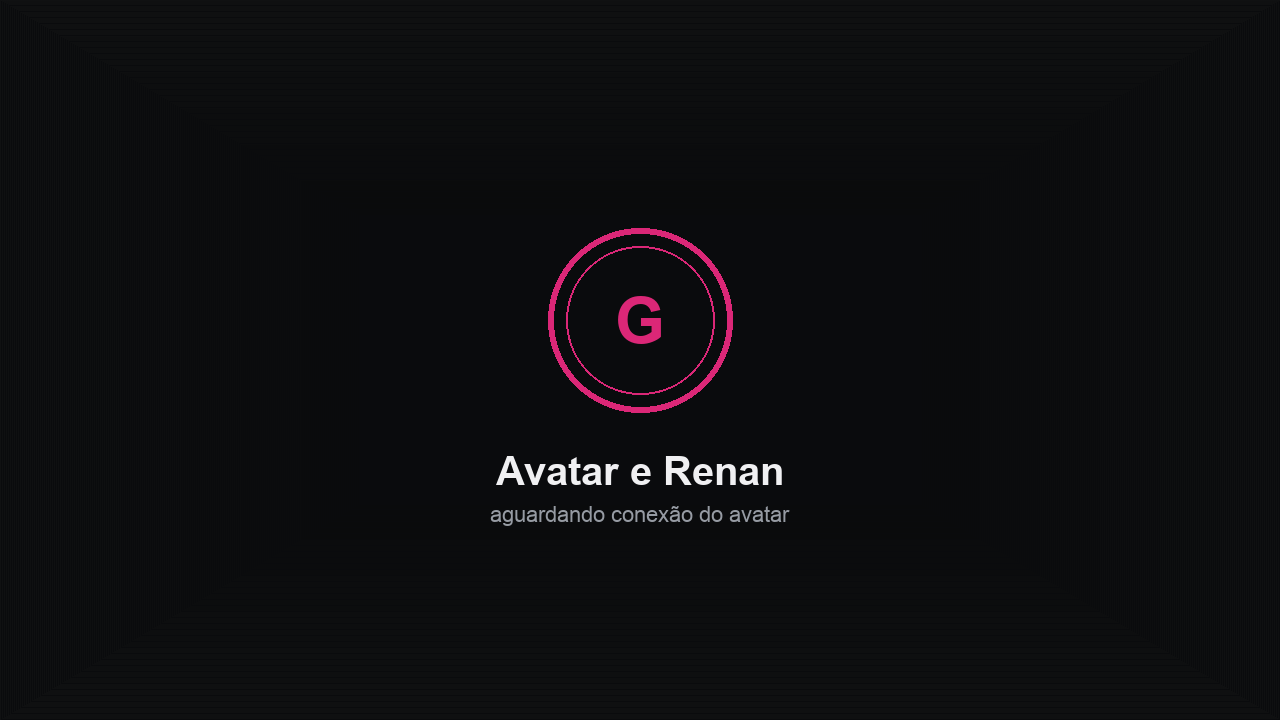
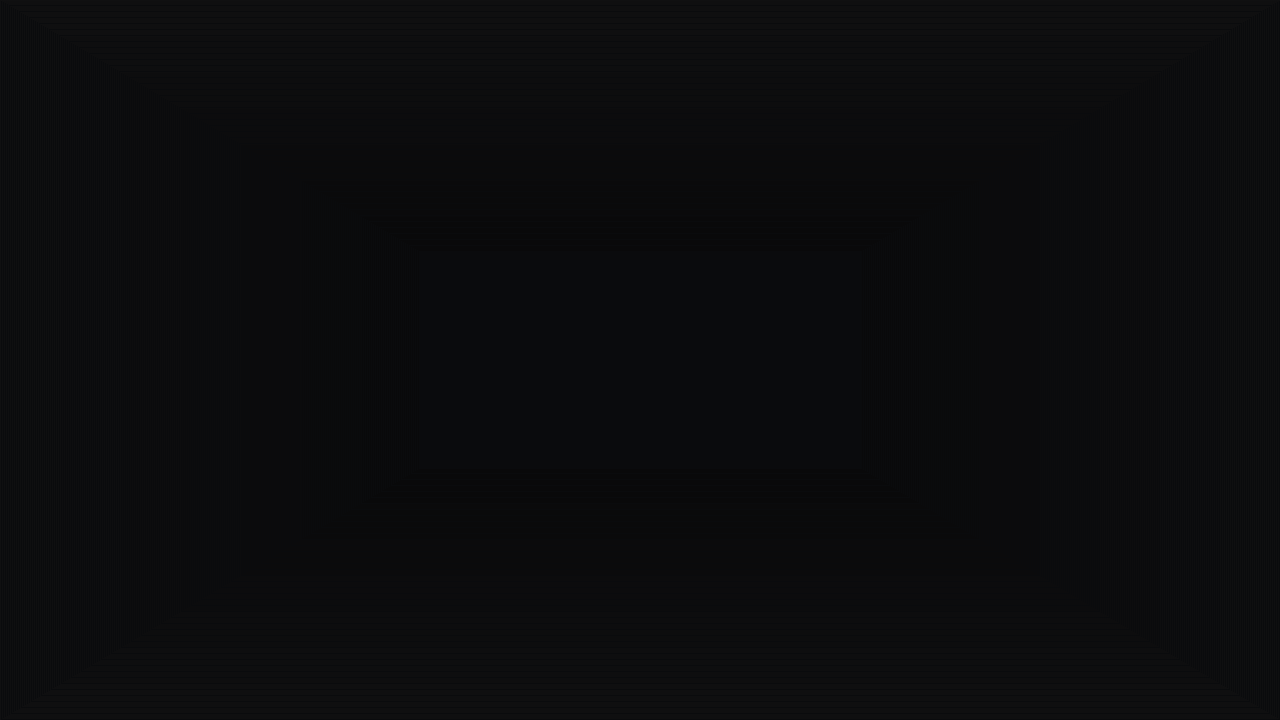
fix: poster placeholder duplicava texto com o overlay ao vivo
O PNG de fallback tinha texto/ícone embutido que sobrepunha com o
overlay "AVATAR DESCONECTADO" depois do fix do preview - trocado por
um fundo neutro, sem texto, já que o overlay ao vivo cobre o status.

diff --git a/PROGRESSO-DEMO.md b/PROGRESSO-DEMO.md
@@ -5,8 +5,10 @@ de tudo que foi feito, o que falta, e o que depende de você. O roteiro de
 validação está em `PLANO-DE-TESTES.md` (ainda não rodei nada — só código).
 
 **Status geral: código pronto para os 10 itens pedidos + ajustes da rodada 2
-(senha de login, rename Renan, preview antes de conectar). Nada foi testado na
-prática ainda e nada foi commitado/enviado ao GitHub — isso é o próximo passo.**
+(senha de login, rename Renan, preview antes de conectar, layout exato do
+Mac). Commitado e enviado ao GitHub (`ec9b47c`, branch `main`) — o deploy
+automático deve estar rodando agora. Nada foi testado na prática ainda —
+esse é o próximo passo, com você acompanhando pelo `PLANO-DE-TESTES.md`.**
 
 ---
 
@@ -159,9 +161,14 @@ prática ainda e nada foi commitado/enviado ao GitHub — isso é o próximo pas
   clicar em "Carregar avatares e vozes").
 
 ### ✅ 10. Preview do avatar (PNG estático de fallback)
-- Criei `public/avatar-poster.png` — um placeholder escuro com a marca GZero
-  ("Avatar e Renan · aguardando conexão do avatar"), gerado programaticamente
-  (não é uma captura real do avatar).
+- Criei `public/avatar-poster.png` — um fundo escuro neutro (sem texto/ícone),
+  gerado programaticamente (não é uma captura real do avatar).
+- **Correção (rodada 3)**: a 1ª versão do placeholder tinha texto embutido
+  ("Avatar e Renan · aguardando conexão"), que passou a **duplicar** com o
+  overlay ao vivo ("AVATAR DESCONECTADO") depois que corrigi o bug abaixo —
+  as duas camadas de texto ficavam sobrepostas (foi o que você viu no seu
+  print). Troquei pelo fundo neutro atual; quem mostra status agora é só o
+  overlay ao vivo, sem duplicar mensagem.
 - Ordem de resolução do preview (vídeo antes de conectar):
   1. `posterUrl` configurado (preenchido automaticamente ao escolher um
      avatar na lista da API)
@@ -218,17 +225,19 @@ correção):
 | `PROGRESSO-DEMO.md` | **Novo** — este arquivo |
 
 Validado até agora: `tsc --noEmit` limpo, `vite build` (client + SSR) completo
-sem erros, nas duas rodadas. **Nenhum teste funcional/manual foi rodado
-ainda**, e **nada foi commitado nem enviado ao GitHub** — combinado que eu
-confirmo com você antes de dar push (o repo novo tem deploy automático, então
-um push já vira produção).
+sem erros. **Commitado e enviado ao GitHub** — commit `ec9b47c` na branch
+`main` de `github.com/gestao-gzero/avatar-renante`, sem divergência do
+`origin/main` (conferido com `git fetch` antes de enviar). Deploy automático
+deve estar rodando agora. **Nenhum teste funcional/manual foi rodado ainda.**
 
 ---
 
 ## O que falta (em ordem)
 
-1. **Confirmar com você antes do commit/push** (deploy é automático — ver
-   pergunta 1 abaixo).
+1. **Confirmar que o deploy em `renante.gravidadezero.ai` concluiu** e está
+   servindo o código novo (dá pra conferir pelo nome do bot no Meet: se
+   aparecer "Renan", é a versão nova; se ainda for "Renante", o deploy antigo
+   ainda está no ar ou não disparou).
 2. **Rodar o Bloco 0 e 1 do plano de testes** (baseline + sessão local,
    incluindo a tela de login com `renante2026`, e comparar o layout com o
    print original) — primeiro teste real de tudo que mudou.
@@ -244,11 +253,7 @@ um push já vira produção).
 
 ## Perguntas / decisões que precisam de você
 
-1. **Push/commit**: como o deploy é automático ao enviar pro GitHub, meu
-   plano é: (a) você me passar o layout capturado, (b) eu aplico, (c) eu
-   commito tudo de uma vez e **confirmo com você antes de dar `git push`** —
-   tudo bem assim, ou prefere revisar o diff antes mesmo do commit local?
-2. **Poster do avatar**: o PNG que criei é só um placeholder genérico — o
+1. **Poster do avatar**: o PNG que criei é só um placeholder genérico — o
    botão de captura (💡 já explicado no item 10 acima) resolve isso na
    primeira vez que alguém conectar o avatar, ou prefere que eu já capture/
    monte um específico antes disso?
